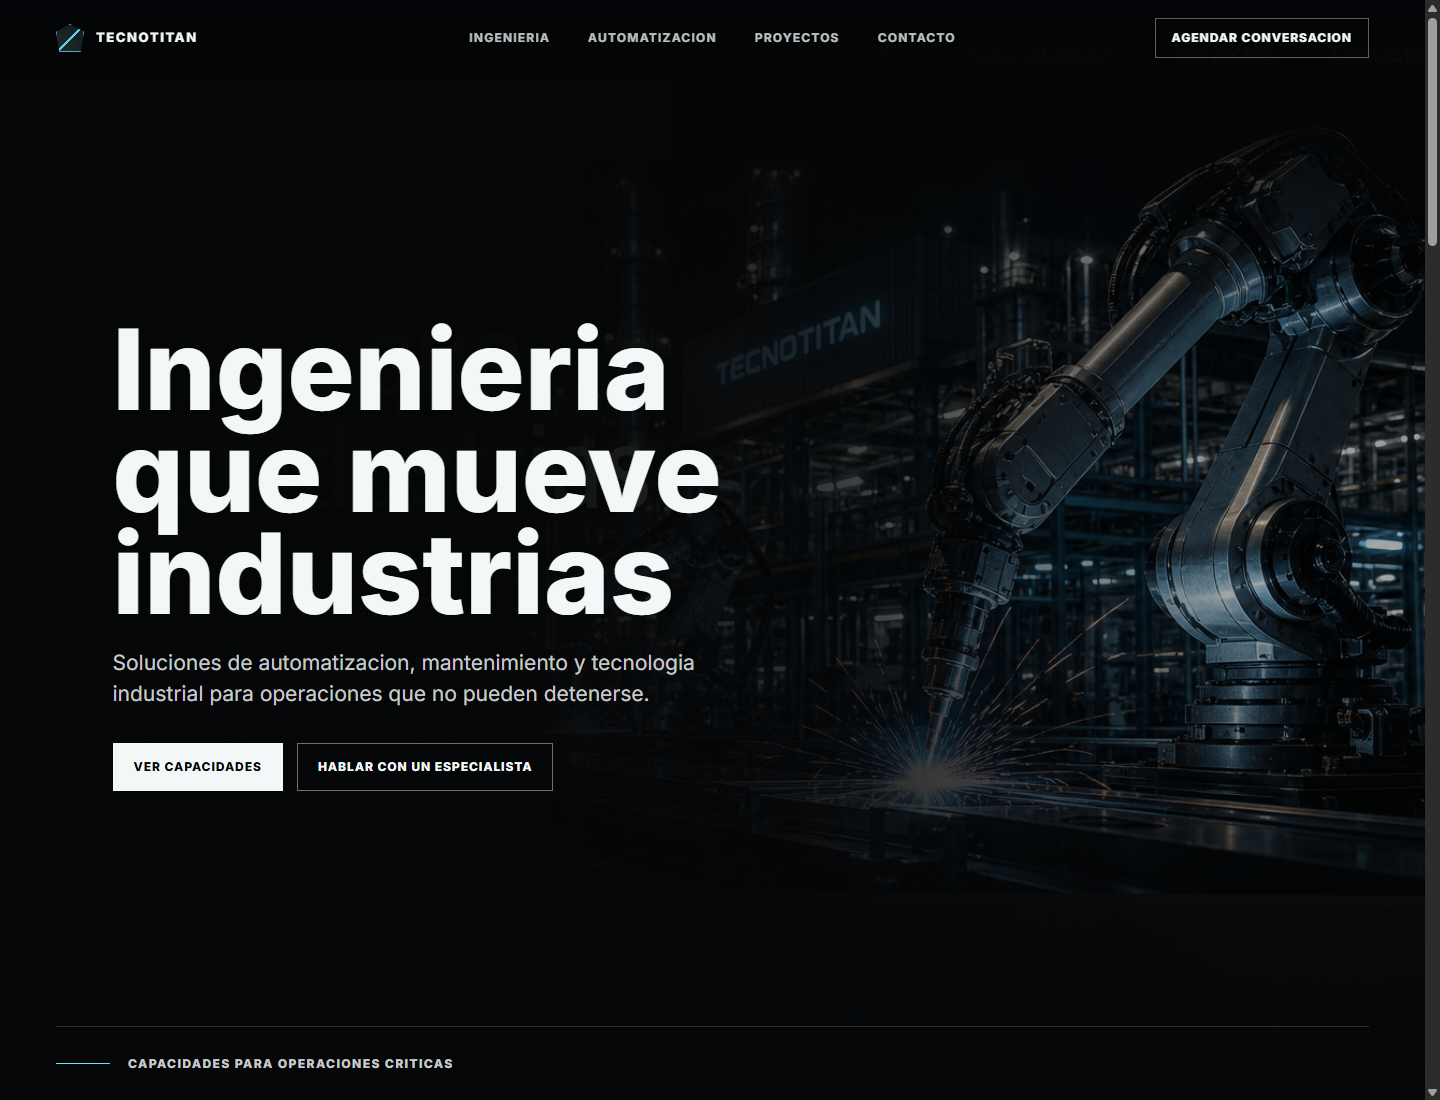
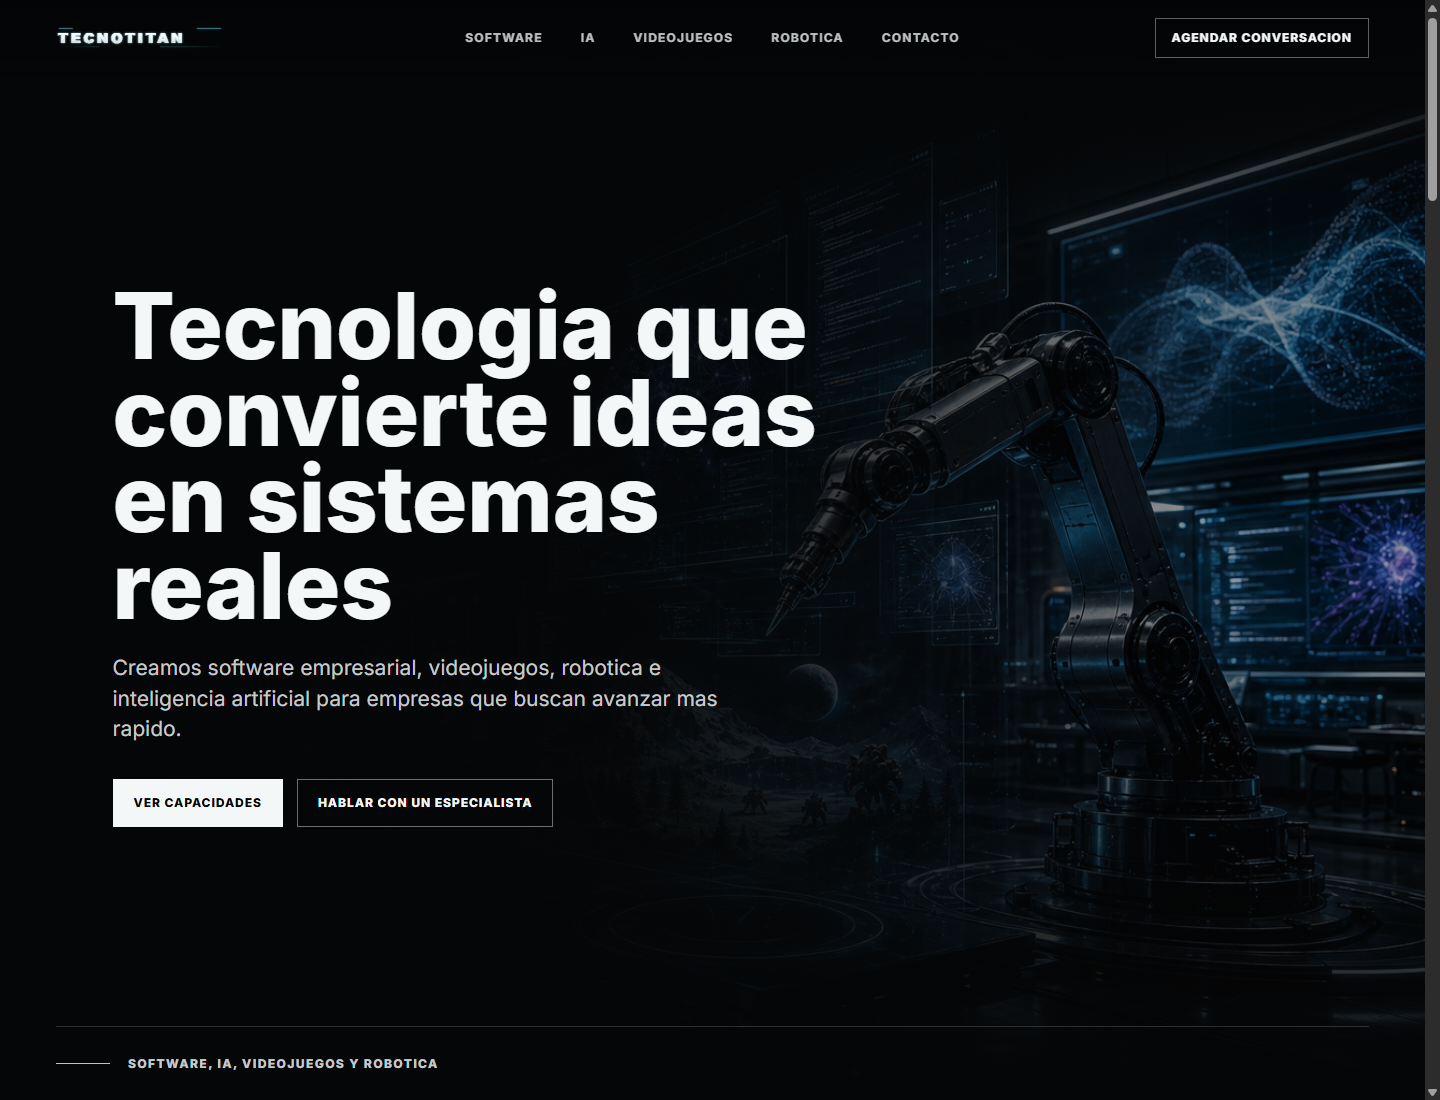
Add technology-focused background imagery

diff --git a/index.html b/index.html
@@ -39,7 +39,7 @@
 
     <main>
       <section class="hero panel-section" id="inicio" aria-labelledby="hero-title">
-        <img class="hero-image" src="./assets/concept-hero.png" alt="" />
+        <img class="hero-image" src="./assets/bg-hero-tech.png" alt="" />
         <div class="scrim" aria-hidden="true"></div>
         <div class="section-inner hero-inner">
           <div class="hero-copy reveal">
@@ -68,7 +68,7 @@
       <section class="capabilities panel-section" id="software" aria-labelledby="capabilities-title">
         <div class="section-inner split-layout">
           <div class="media-frame reveal">
-            <img src="./assets/concept-capabilities.png" alt="Detalle tecnico de tecnologia y robotica" />
+            <img src="./assets/bg-capabilities-tech.png" alt="Detalle tecnico de software, inteligencia artificial y robotica" />
           </div>
           <div class="section-copy reveal">
             <h2 id="capabilities-title">Capacidades para crear tecnologia de alto impacto</h2>
@@ -103,7 +103,7 @@
       </section>
 
       <section class="process panel-section" id="ia" aria-labelledby="process-title">
-        <img class="process-bg" src="./assets/concept-process.png" alt="" />
+        <img class="process-bg" src="./assets/bg-process-ai.png" alt="" />
         <div class="section-inner process-inner">
           <div class="section-copy reveal">
             <h2 id="process-title">De la estrategia al producto inteligente</h2>
@@ -138,6 +138,7 @@
       </section>
 
       <section class="projects panel-section" id="experiencias" aria-labelledby="projects-title">
+        <img class="section-bg" src="./assets/bg-games-experiences.png" alt="" />
         <div class="section-inner projects-inner">
           <div class="section-copy reveal">
             <h2 id="projects-title">Soluciones para empresas que quieren transformarse</h2>
@@ -196,7 +197,7 @@
       </section>
 
       <section class="closing panel-section" id="contacto" aria-labelledby="closing-title">
-        <img class="closing-image" src="./assets/concept-close.png" alt="" />
+        <img class="closing-image" src="./assets/bg-closing-tech.png" alt="" />
         <div class="closing-scrim" aria-hidden="true"></div>
         <div class="section-inner closing-inner">
           <div class="closing-copy reveal">

diff --git a/styles.css b/styles.css
@@ -172,7 +172,8 @@ a {
 
 .hero-image,
 .closing-image,
-.process-bg {
+.process-bg,
+.section-bg {
   position: absolute;
   inset: 0;
   width: 100%;
@@ -314,6 +315,22 @@ h3 {
     radial-gradient(circle at 86% 18%, rgba(103, 229, 255, 0.11), transparent 26%),
     linear-gradient(180deg, #050607, #0a0e11 45%, #050607);
   padding: clamp(88px, 12vw, 152px) 0;
+}
+
+.projects::before {
+  content: "";
+  position: absolute;
+  inset: 0;
+  z-index: 1;
+  background:
+    linear-gradient(90deg, rgba(5, 6, 7, 0.92), rgba(5, 6, 7, 0.7) 46%, rgba(5, 6, 7, 0.38)),
+    linear-gradient(180deg, #050607 0%, rgba(5, 6, 7, 0.66) 34%, #050607 100%);
+  pointer-events: none;
+}
+
+.section-bg {
+  z-index: 0;
+  opacity: 0.66;
 }
 
 .split-layout {
